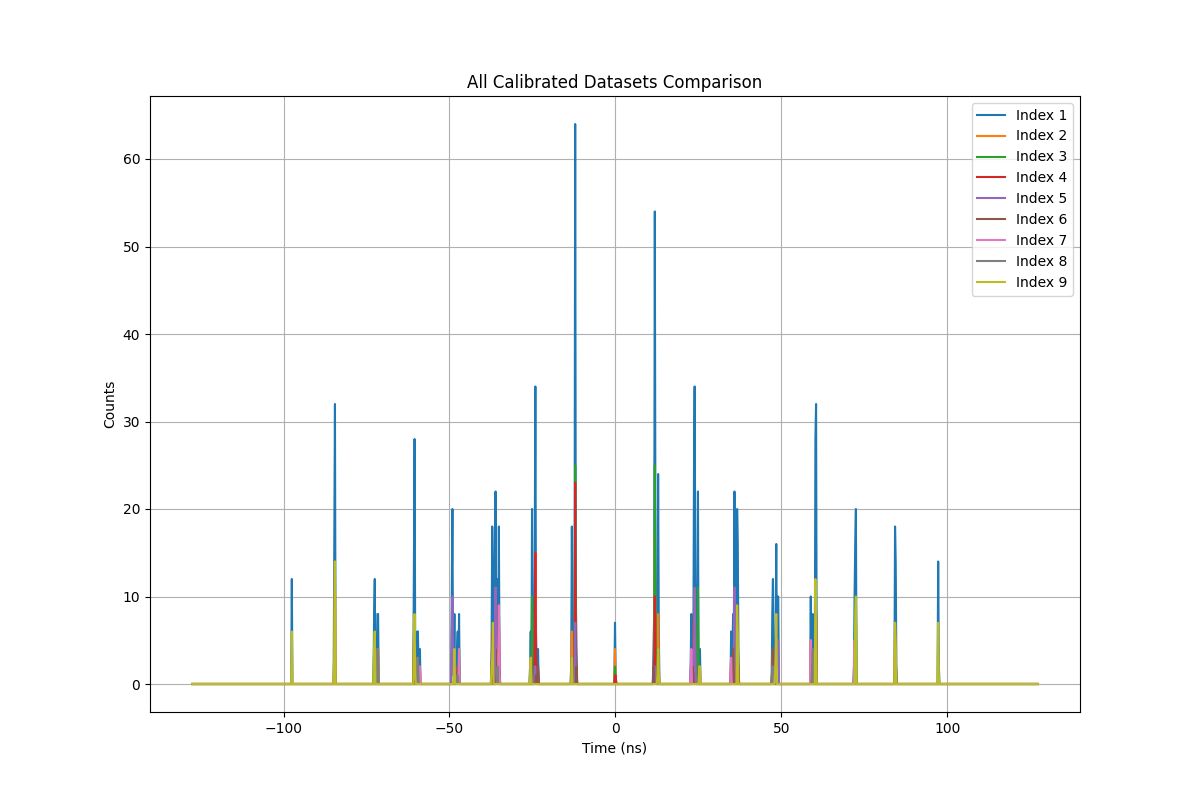
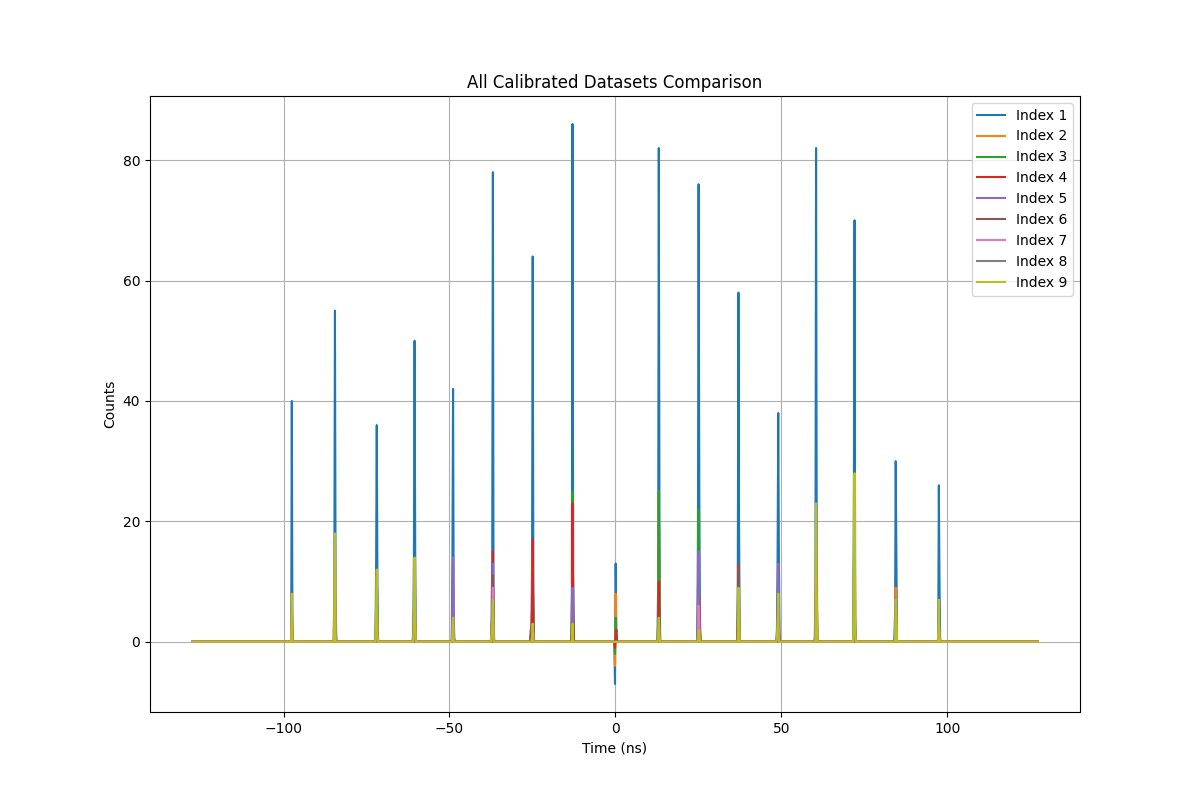
final updates with combined results

diff --git a/g2_data_processing/process_7th_g2_data.py b/g2_data_processing/process_7th_g2_data.py
@@ -1,0 +1,77 @@
+import numpy as np
+import matplotlib.pyplot as plt
+import os
+
+def process_g2_data(i):
+    """
+    Process g2 data for a given index i by:
+    1. Loading left and right ion data
+    2. Summing them
+    3. Subtracting center ion data
+    4. Saving the result
+    """
+    # Load the data files
+    left_data = np.load(f'f{i}_final_result_left_ion_data_aligned.npy')
+    right_data = np.load(f'f{i}_final_result_right_ion_data_aligned.npy')
+    # center_data = np.load(f'g2_data/{i}_final_result_center_ion_data.npy')
+    center_file_path = os.path.join('..', 'g2_data', f'{i}_final_result_center_ion_data.npy')
+    center_data = np.load(center_file_path)
+    # index_data = np.load(f'g2_data/{i}_index_center_ion_data.npy')
+    index_file_path = os.path.join('..', 'g2_data', f'{i}_index_center_ion_data.npy')
+    index_data = np.load(index_file_path)
+    
+    # Sum left and right data
+    combined_data = left_data + right_data
+    
+    # Subtract center data
+    final_data = combined_data - center_data
+    
+    # Save the processed data
+    np.save(f'{i}_final_result_caled_ion_data.npy', final_data)
+    print(f'Processed and saved data for index {i}')
+
+def load_and_plot_caled_data():
+    """
+    Load the 7th calibrated data file and plot it.
+    """
+    try:
+        # Load calibrated data for index 7
+        i = 7
+        caled_data = np.load(f'{i}_final_result_caled_ion_data.npy')
+        # Load corresponding index data
+        index_file_path = os.path.join('..', 'g2_data', f'{i}_index_center_ion_data.npy')
+        index_data = np.load(index_file_path)
+        
+        print(f"Loaded data for index {i}, shape: {caled_data.shape}")
+        
+        # Plot 7th dataset
+        plt.figure(figsize=(10, 6))
+        plt.plot(index_data, caled_data)
+        plt.title(f'Calibrated Data for Index {i}')
+        plt.xlabel('Time (ns)')
+        plt.ylabel('Counts')
+        plt.grid(True)
+        plt.savefig(f'caled_data_index_{i}.png')
+        plt.show()
+        
+    except Exception as e:
+        print(f"Error processing index {i}: {e}")
+
+def main():
+    """
+    Main function to process and plot only the 7th g2 data.
+    """
+    # Process only the 7th dataset
+    i = 7
+    print(f"Processing g2 data for index {i}...")
+    try:
+        process_g2_data(i)
+    except Exception as e:
+        print(f'Error processing index {i}: {str(e)}')
+    
+    # Then load and plot the calibrated data
+    print(f"\nLoading and plotting calibrated data for index {i}...")
+    load_and_plot_caled_data()
+
+if __name__ == '__main__':
+    main() 

diff --git a/g2_data_processing/III_combined_g2_processing_and_plotting.py b/g2_data_processing/III_combined_g2_processing_and_plotting.py
@@ -11,8 +11,8 @@ def process_g2_data(i):
     4. Saving the result
     """
     # Load the data files
-    left_data = np.load(f'f{i}_final_result_left_ion_data_aligned.npy')
-    right_data = np.load(f'f{i}_final_result_right_ion_data_aligned.npy')
+    left_data = np.load(f'{i}_final_result_left_ion_data_aligned.npy')
+    right_data = np.load(f'{i}_final_result_right_ion_data_aligned.npy')
     # center_data = np.load(f'g2_data/{i}_final_result_center_ion_data.npy')
     center_file_path = os.path.join('..', 'g2_data', f'{i}_final_result_center_ion_data.npy')
     center_data = np.load(center_file_path)
@@ -27,7 +27,7 @@ def process_g2_data(i):
     final_data = combined_data - center_data
     
     # Save the processed data
-    np.save(f'{i}_final_result_caled_ion_data.npy', final_data)
+    np.save(f'{i}_final_result_caled_ion_data_aligned.npy', final_data)
     print(f'Processed and saved data for index {i}')
 
 def load_and_plot_caled_data():
@@ -46,7 +46,7 @@ def load_and_plot_caled_data():
     for i in range(1, 10):
         try:
             # Load calibrated data
-            caled_data = np.load(f'{i}_final_result_caled_ion_data.npy')
+            caled_data = np.load(f'{i}_final_result_caled_ion_data_aligned.npy')
             # Load corresponding index data
             # index_data = np.load(f'{i}_index_center_ion_data.npy')
             index_file_path = os.path.join('..', 'g2_data', f'{i}_index_center_ion_data.npy')
